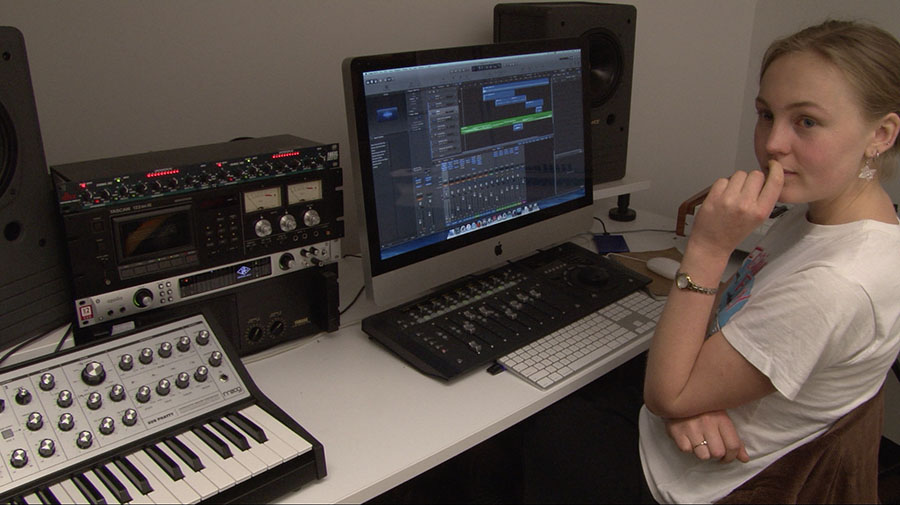
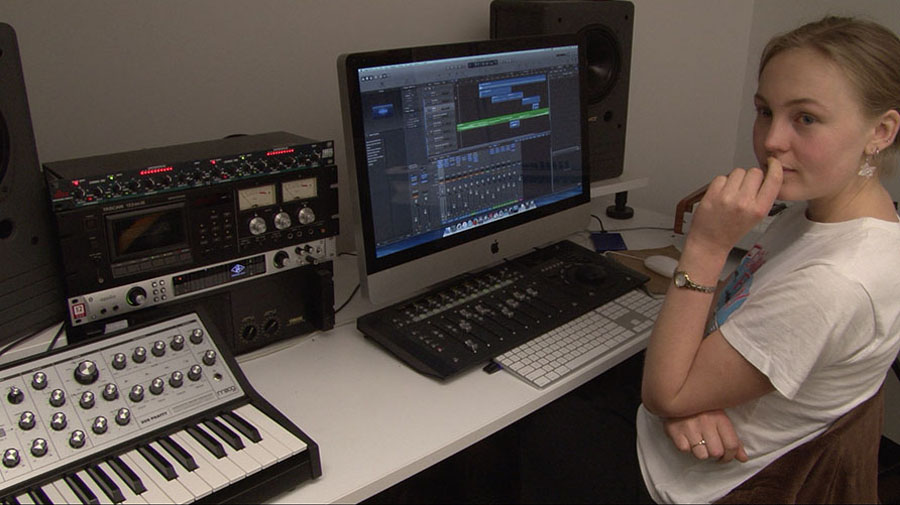
site finished bar form

diff --git a/assets/css/style.css b/assets/css/style.css
@@ -1,1 +1,1 @@
-body{font-size:17.5px}h1,h2,body{font-family:'Josefin Sans', sans-serif;font-style:italic;font-weight:300;letter-spacing:.1em}h2 a,body{color:#fff}h2 a{background-color:#dbdacf;text-decoration:none;font-size:.75em;padding:.3em;width:20px}h2 a:hover{background-color:#b9d3b2}h1{color:#b9d3b2;font-size:1.75em}h3 a{color:#a2a3ac;background-color:#b9d3b2;font-weight:400;padding:.25em}h3 a:hover{background-color:#dbdacf}.bottom-nav{list-style:none}.bottom-nav li a{color:#dbdacf;text-decoration:none;font-weight:700;border-bottom:3px solid #dbdacf}.bottom-nav li a:hover{background-color:#b9d3b2;padding:.3em;border:none}.bottom-nav .contact-button a{color:#a2a3ac;background-color:#dbdacf;padding:.3em;text-decoration:none;border-bottom:0}p{margin:0 auto;line-height:1.2em}.synopsis-bold{font-weight:700;display:block;padding-bottom:3%}body{background:#bdbdc1;margin:0}#landing-page{-webkit-display:flex;-moz-display:flex;-ms-display:flex;-o-display:flex;display:flex;-webkit-flex-direction:column;-moz-flex-direction:column;-ms-flex-direction:column;-o-flex-direction:column;flex-direction:column}.top-nav{margin-left:3%;top:0;width:97%}.top-nav,.bottom-nav{-webkit-display:flex;-moz-display:flex;-ms-display:flex;-o-display:flex;display:flex;-webkit-justify-content:space-between;-moz-justify-content:space-between;-ms-justify-content:space-between;-o-justify-content:space-between;justify-content:space-between;position:fixed}.bottom-nav{width:90%;bottom:0;margin-left:-3.5%;margin-top:7%;-ms-align-self:flex-end;align-self:flex-end}.container{width:100%;max-width:960px;-webkit-display:flex;-moz-display:flex;-ms-display:flex;-o-display:flex;display:flex;-webkit-flex-direction:column;-moz-flex-direction:column;-ms-flex-direction:column;-o-flex-direction:column;flex-direction:column}.landing-image{display:flex;flex-direction:row-reverse;justify-content:space-between;margin-top:25vh;flex:none}.small1{height:50vh;width:auto;margin-top:-10vh}.read-more{width:50%;max-width:500px;margin-top:30vh;margin-left:5%}.synopsis-text{width:80%;padding-top:25%;margin:0 auto}#film-stills{background-color:#eee}.stills{width:60%;padding:2%;display:block;margin:0 auto}.all-stills{list-style:none;width:100%}.media-credits{width:80%;padding-top:25%;padding-bottom:35%}.credits{width:80%;padding-bottom:10%}.credits a{color:#fff;text-decoration:none;font-weight:700;line-height:1.5em}.credits a:hover{border-bottom:3px solid #fff}fieldset{width:60%;max-width:290px;border:none;margin:0 auto}form{margin-top:25%}.form-title{text-align:right;padding-right:0.5em}input,textarea{font-family:'Josefin Sans', sans-serif;font-style:italic;font-weight:300;letter-spacing:.1em;font-size:14px;padding:.25em;margin:1em}button{color:#fff;font-family:'Josefin Sans', sans-serif;font-style:italic;font-weight:300;letter-spacing:.1em;font-size:14px;background-color:#b9d3b2;font-weight:700;padding:.5em .5em;margin-left:.85em;border:none}section{max-width:100%;min-height:100vh;overflow:hidden}.bg-slideshow,.bg-slideshow:after{width:100%;height:100%;top:0px;left:0px;z-index:-999}ul{list-style:none}.bg-slideshow li span{width:100%;height:100%;position:absolute;top:0px;left:0px;color:transparent;background-size:cover;background-position:50% 50%;background-repeat:none;opacity:0;z-index:0;-webkit-backface-visibility:hidden;-webkit-animation:imageAnimation 24s linear infinite 0s;-moz-animation:imageAnimation 24s linear infinite 0s;-o-animation:imageAnimation 24s linear infinite 0s;-ms-animation:imageAnimation 24s linear infinite 0s;animation:imageAnimation 24s linear infinite 0s}.bg-slideshow li:nth-child(1) span{background-image:url(../img/big1.jpg)}.bg-slideshow li:nth-child(2) span{background-image:url(../img/big2.jpg);-webkit-animation-delay:8s;-moz-animation-delay:8s;-o-animation-delay:8s;-ms-animation-delay:8s;animation-delay:8s}.bg-slideshow li:nth-child(3) span{background-image:url(../img/big3.jpg);-webkit-animation-delay:16s;-moz-animation-delay:16s;-o-animation-delay:16s;-ms-animation-delay:16s;animation-delay:16s}@-webkit-keyframes imageAnimation{0%{opacity:0;-webkit-animation-timing-function:ease-in}5%{opacity:1;-webkit-animation-timing-function:ease-out}17%{opacity:1}65%{opacity:0}100%{opacity:0}}@-moz-keyframes imageAnimation{0%{opacity:0;-moz-animation-timing-function:ease-in}5%{opacity:1;-moz-animation-timing-function:ease-out}17%{opacity:1}65%{opacity:0}100%{opacity:0}}@-o-keyframes imageAnimation{0%{opacity:0;-o-animation-timing-function:ease-in}5%{opacity:1;-o-animation-timing-function:ease-out}17%{opacity:1}65%{opacity:0}100%{opacity:0}}@-ms-keyframes imageAnimation{0%{opacity:0;-ms-animation-timing-function:ease-in}5%{opacity:1;-ms-animation-timing-function:ease-out}17%{opacity:1}65%{opacity:0}100%{opacity:0}}@keyframes imageAnimation{0%{opacity:0;animation-timing-function:ease-in}5%{opacity:1;animation-timing-function:ease-out}17%{opacity:1}65%{opacity:0}100%{opacity:0}}.no-cssanimations .cb-slideshow li span{opacity:1}#synopsis{background-color:#bdbdc1}#film-stills{background-color:#b9d3b2}#credits{background-color:#bdbdc1}#contact{background-image:url(../img/big3.jpg);background-size:cover;background-position:50% 50%;background-repeat:none}@media screen and (min-width: 769px){.top-nav{width:58%;margin-left:40%}.bottom-nav{width:50%;font-size:.8em}body{font-size:20px;font-weight:100}h1{font-size:2em;margin-top:.6em}.small1{height:55vh;width:auto;margin-right:15%}h3{font-size:1em}.media-credits{padding-bottom:25vh}.credits{padding-bottom:5%}.links{text-align:right}form{margin-top:20%}fieldset{width:290px}}@media screen and (min-width: 960px){.container{max-width:2000px}.bottom-nav{font-size:1em;margin-left:-1.5%}h1{font-size:2.75em;margin-top:.4em}h2{font-size:1.6em}.synopsis-text{padding-top:35vh;width:95%}.all-stills{margin:0 auto;-webkit-display:inline-flex;-moz-display:inline-flex;-ms-display:inline-flex;-o-display:inline-flex;display:inline-flex;-webkit-display:flex;-moz-display:flex;-ms-display:flex;-o-display:flex;display:flex;-webkit-flex-direction:row;-moz-flex-direction:row;-ms-flex-direction:row;-o-flex-direction:row;flex-direction:row;-webkit-flex-wrap:wrap;-moz-flex-wrap:wrap;-ms-flex-wrap:wrap;-o-flex-wrap:wrap;flex-wrap:wrap;-webkit-justify-content:center;-moz-justify-content:center;-ms-justify-content:center;-o-justify-content:center;justify-content:center;padding-top:30vh;margin-left:-.5%}.still-link{width:22%;height:auto;padding:.5% 1%}.stills{width:100%}.credits{width:25%}.media-credits{width:50%;margin-left:2%;padding-top:30vh}.crew{margin-right:5%}.artists{margin-right:2%}.all-credits{-webkit-display:flex;-moz-display:flex;-ms-display:flex;-o-display:flex;display:flex;-webkit-flex-direction:row;-moz-flex-direction:row;-ms-flex-direction:row;-o-flex-direction:row;flex-direction:row;margin-left:2%;width:96%;-webkit-justify-content:flex-end;-moz-justify-content:flex-end;-ms-justify-content:flex-end;-o-justify-content:flex-end;justify-content:flex-end}form{margin-left:60%;margin-top:40vh}}@media screen and (min-width: 1460px){.bottom-nav{width:40%}.small1{height:70vh}.synopsis-text{width:60%;margin-top:7vh}.media-credits{padding-bottom:7%}}@media screen and (max-width: 420px){body{font-size:15px}}@media screen and (max-height: 420px){.bottom-nav{background-color:#bdbdc1;padding:.5em;margin-left:3%}h3{font-size:.75em}}#overlay{background:rgba(255,255,255,0);width:100%;height:100vh;position:absolute;top:0;left:0;opacity:30%;display:none;text-align:center}#overlay img{width:70%;margin-top:15vh}#overlay p{color:#fff;font-size:1em}
+body{font-size:17.5px}h1,h2,body{font-family:'Josefin Sans', sans-serif;font-style:italic;font-weight:300;letter-spacing:.1em}h2 a,body{color:#fff}h2 a{background-color:#dbdacf;text-decoration:none;font-size:.75em;padding:.3em;width:20px}h2 a:hover{background-color:#b9d3b2}h1{color:#b9d3b2;font-size:1.75em;font-weight:100}h3 a{color:#a2a3ac;background-color:#b9d3b2;font-weight:400;padding:.25em}h3 a:hover{background-color:#dbdacf}.bottom-nav{list-style:none}.bottom-nav li a{color:#dbdacf;text-decoration:none;font-weight:700;border-bottom:3px solid #dbdacf}.bottom-nav li a:hover{background-color:#b9d3b2;padding:.3em;border:none}.bottom-nav .contact-button a{color:#a2a3ac;background-color:#dbdacf;padding:.3em;text-decoration:none;border-bottom:0}p{margin:0 auto;line-height:1.2em}.synopsis-bold{font-weight:700;display:block;padding-bottom:3%}body{background:#bdbdc1;margin:0}#landing-page{-webkit-display:flex;-moz-display:flex;-ms-display:flex;-o-display:flex;display:flex;-webkit-flex-direction:column;-moz-flex-direction:column;-ms-flex-direction:column;-o-flex-direction:column;flex-direction:column}.top-nav{margin-left:3%;top:0;width:97%}.top-nav,.bottom-nav{-webkit-display:flex;-moz-display:flex;-ms-display:flex;-o-display:flex;display:flex;-webkit-justify-content:space-between;-moz-justify-content:space-between;-ms-justify-content:space-between;-o-justify-content:space-between;justify-content:space-between;position:fixed}.bottom-nav{width:90%;bottom:0;margin-left:-3.5%;margin-top:7%;-ms-align-self:flex-end;align-self:flex-end}.container{width:100%;max-width:960px;-webkit-display:flex;-moz-display:flex;-ms-display:flex;-o-display:flex;display:flex;-webkit-flex-direction:column;-moz-flex-direction:column;-ms-flex-direction:column;-o-flex-direction:column;flex-direction:column}.landing-image{display:flex;flex-direction:row-reverse;justify-content:space-between;margin-top:25vh;flex:none}.small1{height:50vh;width:auto;margin-top:-10vh}.read-more{width:50%;max-width:500px;margin-top:30vh;margin-left:5%}.synopsis-text{width:80%;padding-top:25%;margin:0 auto}#film-stills{background-color:#eee}.stills{-webkit-filter:grayscale(1);filter:grayscale(1);width:60%;padding:2%;display:block;margin:0 auto}.all-stills{list-style:none;width:100%}.media-credits{width:80%;padding-top:25%;padding-bottom:35%}.credits{width:80%;padding-bottom:10%}.credits a{color:#fff;text-decoration:none;font-weight:700;line-height:1.5em}.credits a:hover{border-bottom:3px solid #fff}fieldset{width:60%;max-width:290px;border:none;margin:0 auto}form{margin-top:25%}.form-title{text-align:right;padding-right:0.5em}input,textarea{font-family:'Josefin Sans', sans-serif;font-style:italic;font-weight:300;letter-spacing:.1em;font-size:14px;padding:.25em;margin:1em}button{color:#fff;font-family:'Josefin Sans', sans-serif;font-style:italic;font-weight:300;letter-spacing:.1em;font-size:14px;background-color:#b9d3b2;font-weight:700;padding:.5em .5em;margin-left:.85em;border:none}section{max-width:100%;min-height:100vh;overflow:hidden}.bg-slideshow,.bg-slideshow:after{width:100%;height:100%;top:0px;left:0px;z-index:-999}ul{list-style:none}.bg-slideshow li span{width:100%;height:100%;position:absolute;top:0px;left:0px;color:transparent;background-size:cover;background-position:50% 50%;background-repeat:none;opacity:0;z-index:0;-webkit-backface-visibility:hidden;-webkit-animation:imageAnimation 24s linear infinite 0s;-moz-animation:imageAnimation 24s linear infinite 0s;-o-animation:imageAnimation 24s linear infinite 0s;-ms-animation:imageAnimation 24s linear infinite 0s;animation:imageAnimation 24s linear infinite 0s}.bg-slideshow li:nth-child(1) span{background-image:url(../img/big1.jpg)}.bg-slideshow li:nth-child(2) span{background-image:url(../img/big2.jpg);-webkit-animation-delay:8s;-moz-animation-delay:8s;-o-animation-delay:8s;-ms-animation-delay:8s;animation-delay:8s}.bg-slideshow li:nth-child(3) span{background-image:url(../img/big3.jpg);-webkit-animation-delay:16s;-moz-animation-delay:16s;-o-animation-delay:16s;-ms-animation-delay:16s;animation-delay:16s}@-webkit-keyframes imageAnimation{0%{opacity:0;-webkit-animation-timing-function:ease-in}5%{opacity:1;-webkit-animation-timing-function:ease-out}17%{opacity:1}65%{opacity:0}100%{opacity:0}}@-moz-keyframes imageAnimation{0%{opacity:0;-moz-animation-timing-function:ease-in}5%{opacity:1;-moz-animation-timing-function:ease-out}17%{opacity:1}65%{opacity:0}100%{opacity:0}}@-o-keyframes imageAnimation{0%{opacity:0;-o-animation-timing-function:ease-in}5%{opacity:1;-o-animation-timing-function:ease-out}17%{opacity:1}65%{opacity:0}100%{opacity:0}}@-ms-keyframes imageAnimation{0%{opacity:0;-ms-animation-timing-function:ease-in}5%{opacity:1;-ms-animation-timing-function:ease-out}17%{opacity:1}65%{opacity:0}100%{opacity:0}}@keyframes imageAnimation{0%{opacity:0;animation-timing-function:ease-in}5%{opacity:1;animation-timing-function:ease-out}17%{opacity:1}65%{opacity:0}100%{opacity:0}}.no-cssanimations .cb-slideshow li span{opacity:1}#synopsis{background-color:#bdbdc1}#film-stills{background-color:#b9d3b2}#credits{background-color:#bdbdc1}#contact{background-image:url(../img/big3.jpg);background-size:cover;background-position:50% 50%;background-repeat:none}@media screen and (min-width: 769px){.top-nav{width:58%;margin-left:40%}.bottom-nav{width:50%;font-size:.8em}body{font-size:20px;font-weight:100}h1{font-size:2em;margin-top:.6em}.small1{height:55vh;width:auto;margin-right:15%}h3{font-size:1em}.media-credits{padding-bottom:25vh}.credits{padding-bottom:5%}.links{text-align:right}form{margin-top:20%}fieldset{width:290px}}@media screen and (min-width: 960px){.container{max-width:2000px}.bottom-nav{font-size:1em;margin-left:-1.5%}h1{font-size:2.75em;margin-top:.4em}h2{font-size:1.6em}.synopsis-text{padding-top:35vh;width:95%}.all-stills{margin:0 auto;-webkit-display:inline-flex;-moz-display:inline-flex;-ms-display:inline-flex;-o-display:inline-flex;display:inline-flex;-webkit-display:flex;-moz-display:flex;-ms-display:flex;-o-display:flex;display:flex;-webkit-flex-direction:row;-moz-flex-direction:row;-ms-flex-direction:row;-o-flex-direction:row;flex-direction:row;-webkit-flex-wrap:wrap;-moz-flex-wrap:wrap;-ms-flex-wrap:wrap;-o-flex-wrap:wrap;flex-wrap:wrap;-webkit-justify-content:center;-moz-justify-content:center;-ms-justify-content:center;-o-justify-content:center;justify-content:center;padding-top:30vh;margin-left:-.5%}.still-link{width:22%;height:auto;padding:.5% 1%}.stills{width:100%}.credits{width:25%}.media-credits{width:50%;margin-left:2%;padding-top:30vh}.crew{margin-right:5%}.artists{margin-right:2%}.all-credits{-webkit-display:flex;-moz-display:flex;-ms-display:flex;-o-display:flex;display:flex;-webkit-flex-direction:row;-moz-flex-direction:row;-ms-flex-direction:row;-o-flex-direction:row;flex-direction:row;margin-left:2%;width:96%;-webkit-justify-content:flex-end;-moz-justify-content:flex-end;-ms-justify-content:flex-end;-o-justify-content:flex-end;justify-content:flex-end}form{margin-left:60%;margin-top:40vh}}@media screen and (min-width: 1460px){.bottom-nav{width:40%}.small1{height:70vh}.synopsis-text{width:60%;margin-top:7vh}.media-credits{padding-bottom:7%}}@media screen and (max-width: 420px){body{font-size:15px}}@media screen and (max-height: 420px){.bottom-nav{background-color:#bdbdc1;padding:.5em;margin-left:3%}h3{font-size:.75em}}#overlay{background:rgba(255,255,255,0);width:100%;height:100vh;position:absolute;top:0;left:0;opacity:30%;display:none;text-align:center}#overlay img{width:80%;margin-top:15vh}#overlay p{color:#fff;font-size:1em}

diff --git a/assets/sass/_layout.scss b/assets/sass/_layout.scss
@@ -78,6 +78,8 @@ body{
 }
 
 .stills{
+	-webkit-filter: grayscale(1);
+	filter: grayscale(1);
 	width:60%;
 	padding:2%;	
 	display:block;

diff --git a/assets/sass/_typography.scss b/assets/sass/_typography.scss
@@ -23,6 +23,7 @@ h2 a{
 h1{
 	color:$mint;
 	font-size:1.75em;
+	font-weight:100;
 }
 h3 a{
 	color:$grey;

diff --git a/assets/sass/_filmstillgallery.scss b/assets/sass/_filmstillgallery.scss
@@ -11,7 +11,7 @@
 }
 
 #overlay img{
-	width:70%;
+	width:80%;
 	margin-top:15vh;
 	
 }
